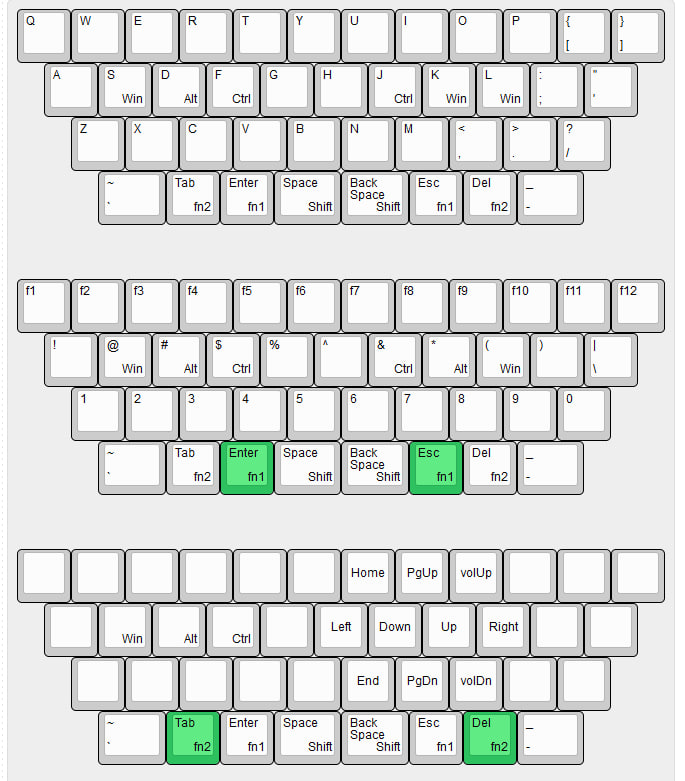
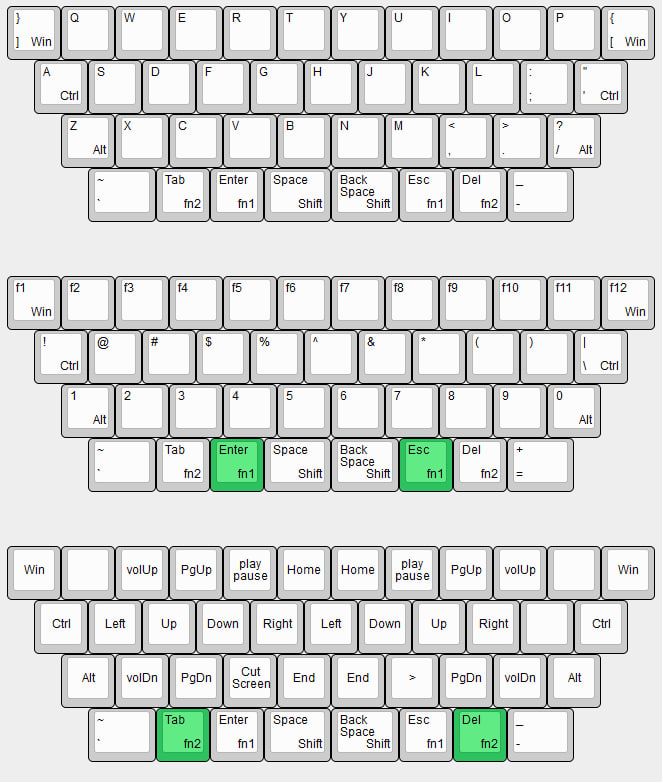
ZMK update

diff --git a/README.md b/README.md
@@ -1,7 +1,7 @@
 # PYRAMIDKA
 
 
-![Alt text](pics/render.jpg)
+![Render](pics/render.jpg)
 
 This keyboard is based on [VOID40](https://github.com/victorlucachi/void40).
 
@@ -16,7 +16,10 @@ Dont overtighten the screws as the posts could break off and the threads might g
 The pyramid has a uniform stagger, each row is shifted by 1/2u. This keyboard uses the most common keycaps: alpha + R1 4x1.25U + R1 4x1U.
 
 # Firmware
-![Alt text](pics/kle.jpg)
+
+[My ZMK config](https://github.com/aroum/zmk-pyramidka)
+
+![KLE](pics/kle.jpg)
 
 # Bill Of Materials
 
